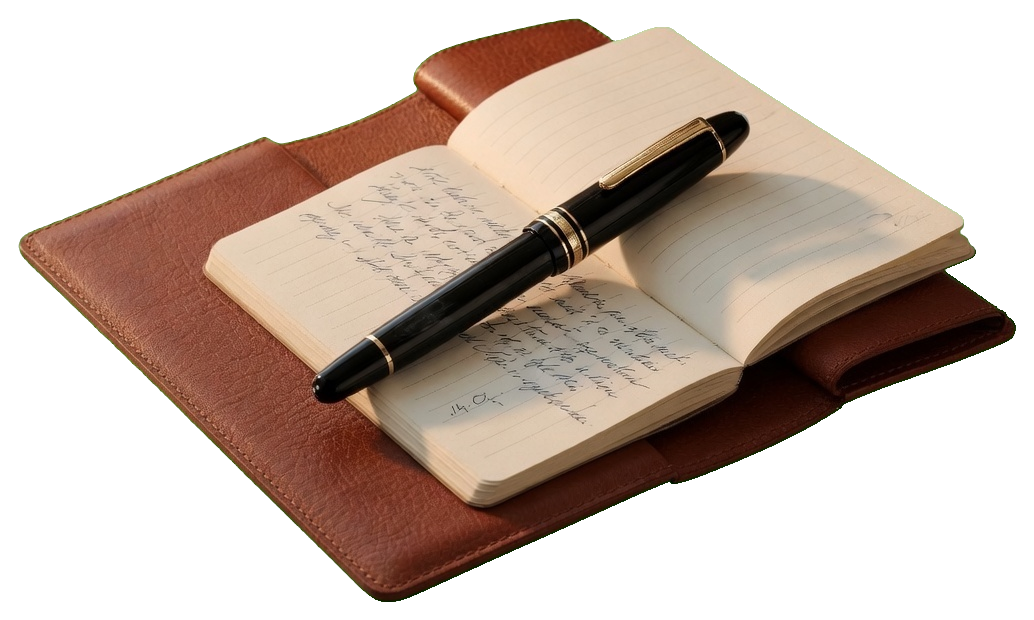
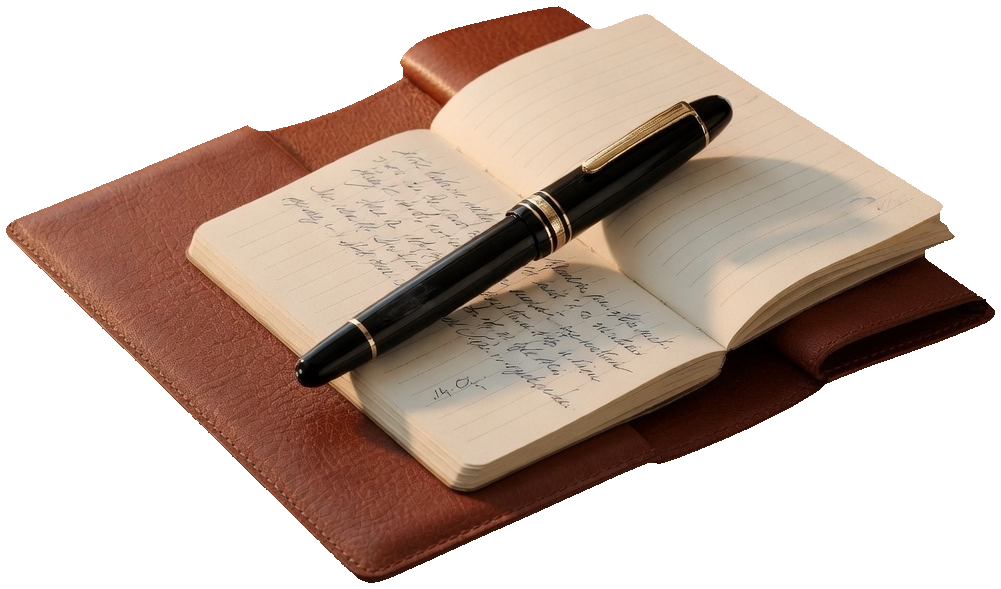
Remove leftover greenscreen from table objects.
Tighter matte and spill kill on every cutout so the desk shows through, not the key.

diff --git a/scripts/cutout.py b/scripts/cutout.py
@@ -1,3 +1,4 @@
+from collections import deque
 from pathlib import Path
 
 import numpy as np
@@ -22,24 +23,64 @@ SOURCES = {
 }
 
 
+def dilate(mask: np.ndarray, steps: int) -> np.ndarray:
+    out = mask.copy()
+    for _ in range(steps):
+        pad = np.pad(out, 1, constant_values=False)
+        out = (
+            out
+            | pad[:-2, 1:-1]
+            | pad[2:, 1:-1]
+            | pad[1:-1, :-2]
+            | pad[1:-1, 2:]
+            | pad[:-2, :-2]
+            | pad[:-2, 2:]
+            | pad[2:, :-2]
+            | pad[2:, 2:]
+        )
+    return out
+
+
 def chroma_to_png(src: Path, dest: Path) -> None:
     image = Image.open(src).convert("RGBA")
     width, height = image.size
-    image = image.crop((0, 0, width, int(height * 0.96)))
+    image = image.crop((0, 0, width, int(height * 0.97)))
     pixels = np.array(image).astype(np.float32)
     red, green, blue = pixels[:, :, 0], pixels[:, :, 1], pixels[:, :, 2]
     dominance = green - np.maximum(red, blue)
-    chroma = (green > 90) & (dominance > 28)
-    t = np.clip((dominance - 18) / 55.0, 0.0, 1.0)
-    alpha = np.where(chroma, 1.0 - t, 1.0)
-    alpha = np.where((green > 170) & (dominance > 40), 0.0, alpha)
-    spill = np.clip(dominance / 180.0, 0.0, 1.0)
-    pixels[:, :, 1] = np.clip(green - spill * 70.0, 0, 255)
+    chroma = (green > 70) & (dominance > 18)
+    h, w = chroma.shape
+    visited = np.zeros((h, w), dtype=bool)
+    queue = deque()
+    for x in range(w):
+        for y in (0, h - 1):
+            if chroma[y, x]:
+                visited[y, x] = True
+                queue.append((y, x))
+    for y in range(h):
+        for x in (0, w - 1):
+            if chroma[y, x] and not visited[y, x]:
+                visited[y, x] = True
+                queue.append((y, x))
+    while queue:
+        y, x = queue.popleft()
+        for dy, dx in ((1, 0), (-1, 0), (0, 1), (0, -1)):
+            ny, nx = y + dy, x + dx
+            if 0 <= ny < h and 0 <= nx < w and not visited[ny, nx] and chroma[ny, nx]:
+                visited[ny, nx] = True
+                queue.append((ny, nx))
+    screen = dilate(visited, 3) | ((green > 130) & (dominance > 28))
+    alpha = np.where(screen, 0.0, 1.0)
+    # kill leftover green-tinted glass / fringe
+    leftover = (~screen) & (green > red + 12) & (green > blue + 12) & (green > 60)
+    alpha = np.where(leftover, 0.0, alpha)
+    spill = np.clip((green - np.maximum(red, blue)) / 80.0, 0.0, 1.0)
+    pixels[:, :, 1] = np.clip(green - spill * 90.0, 0, 255)
     pixels[:, :, 3] = np.clip(alpha * 255.0, 0, 255)
     keyed = Image.fromarray(pixels.astype(np.uint8), "RGBA")
     bbox = keyed.getbbox()
     if bbox:
-        pad = 18
+        pad = 6
         left, top, right, bottom = bbox
         keyed = keyed.crop(
             (
@@ -51,7 +92,12 @@ def chroma_to_png(src: Path, dest: Path) -> None:
         )
     dest.parent.mkdir(parents=True, exist_ok=True)
     keyed.save(dest, "PNG")
-    print(f"wrote {dest.name} {keyed.size}")
+    vis = np.array(keyed)[:, :, 3] > 20
+    g = np.array(keyed)[:, :, 1].astype(float)
+    r = np.array(keyed)[:, :, 0].astype(float)
+    b = np.array(keyed)[:, :, 2].astype(float)
+    green_left = vis & (g > r + 15) & (g > b + 15) & (g > 80)
+    print(f"wrote {dest.name} {keyed.size} leftover-green {round(100 * green_left.mean(), 2)}%")
 
 
 def main() -> None:
